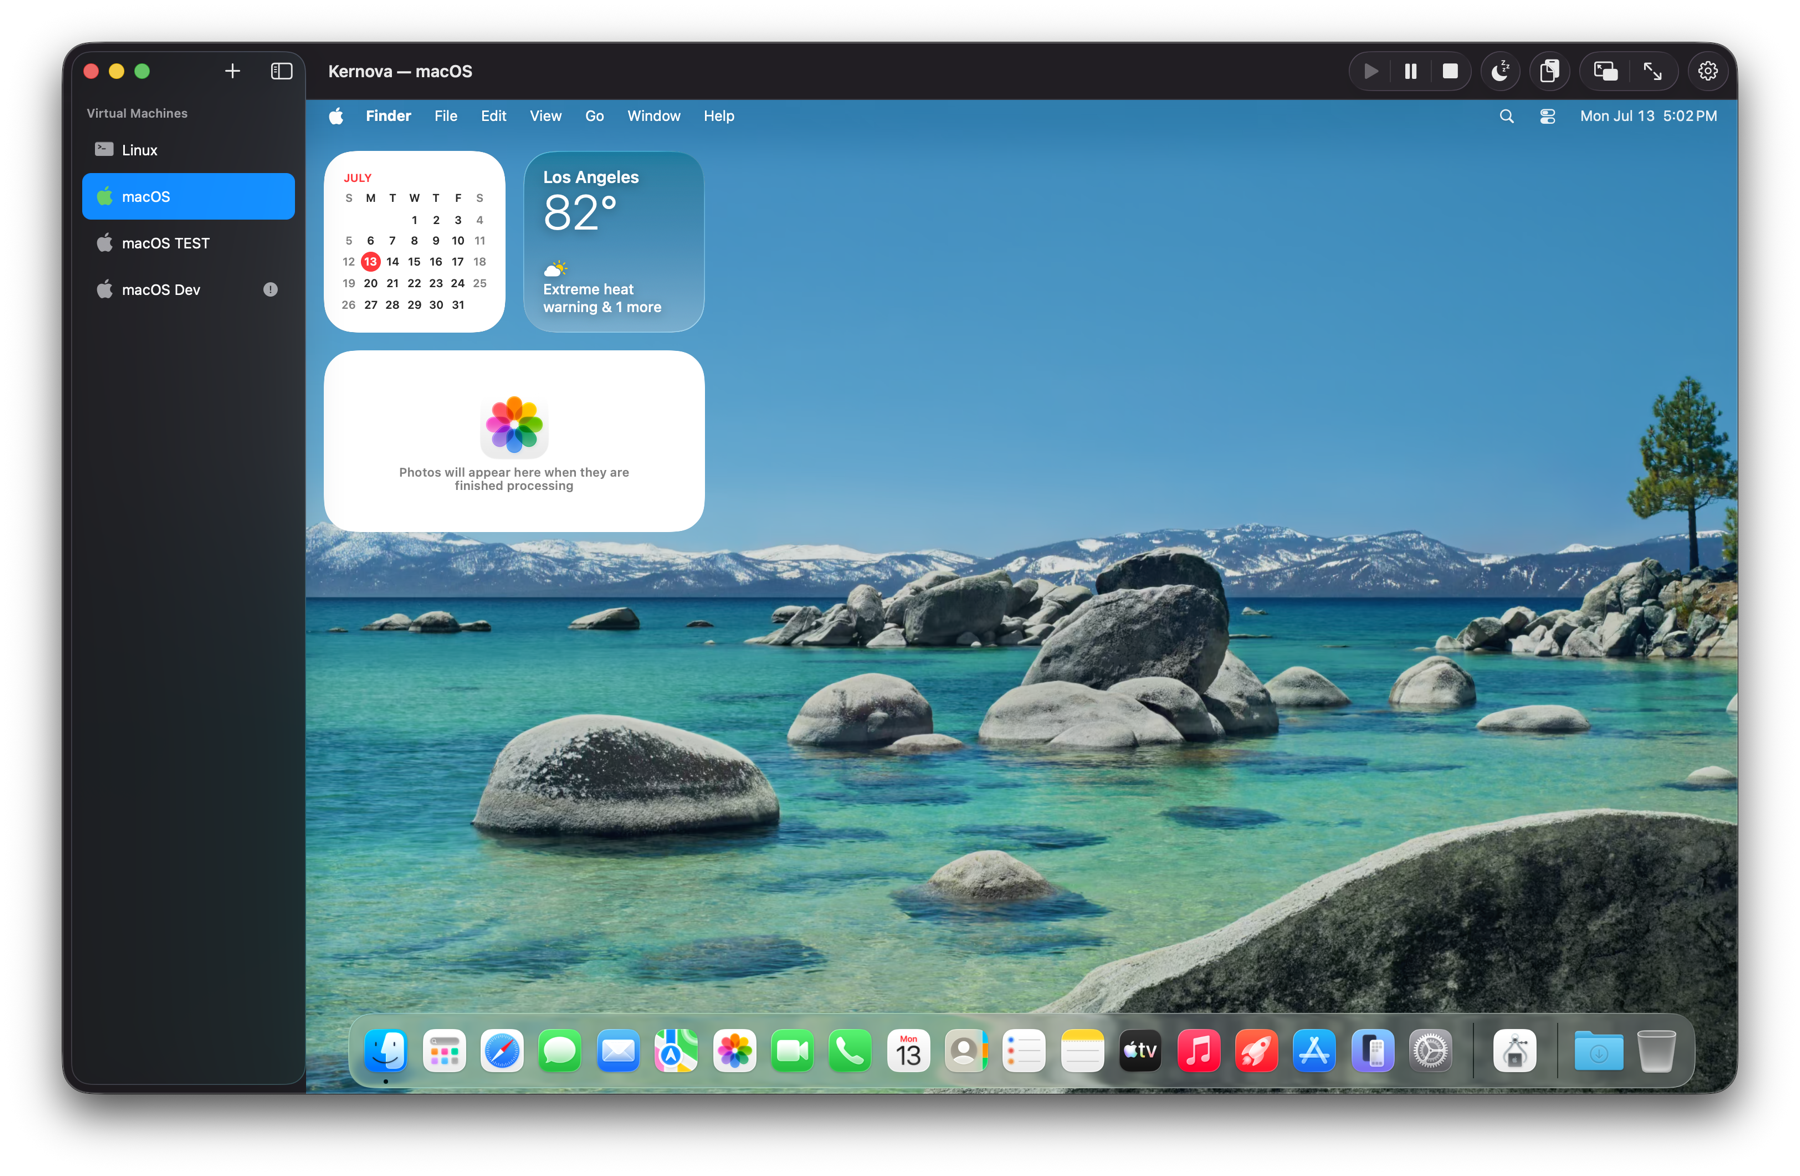
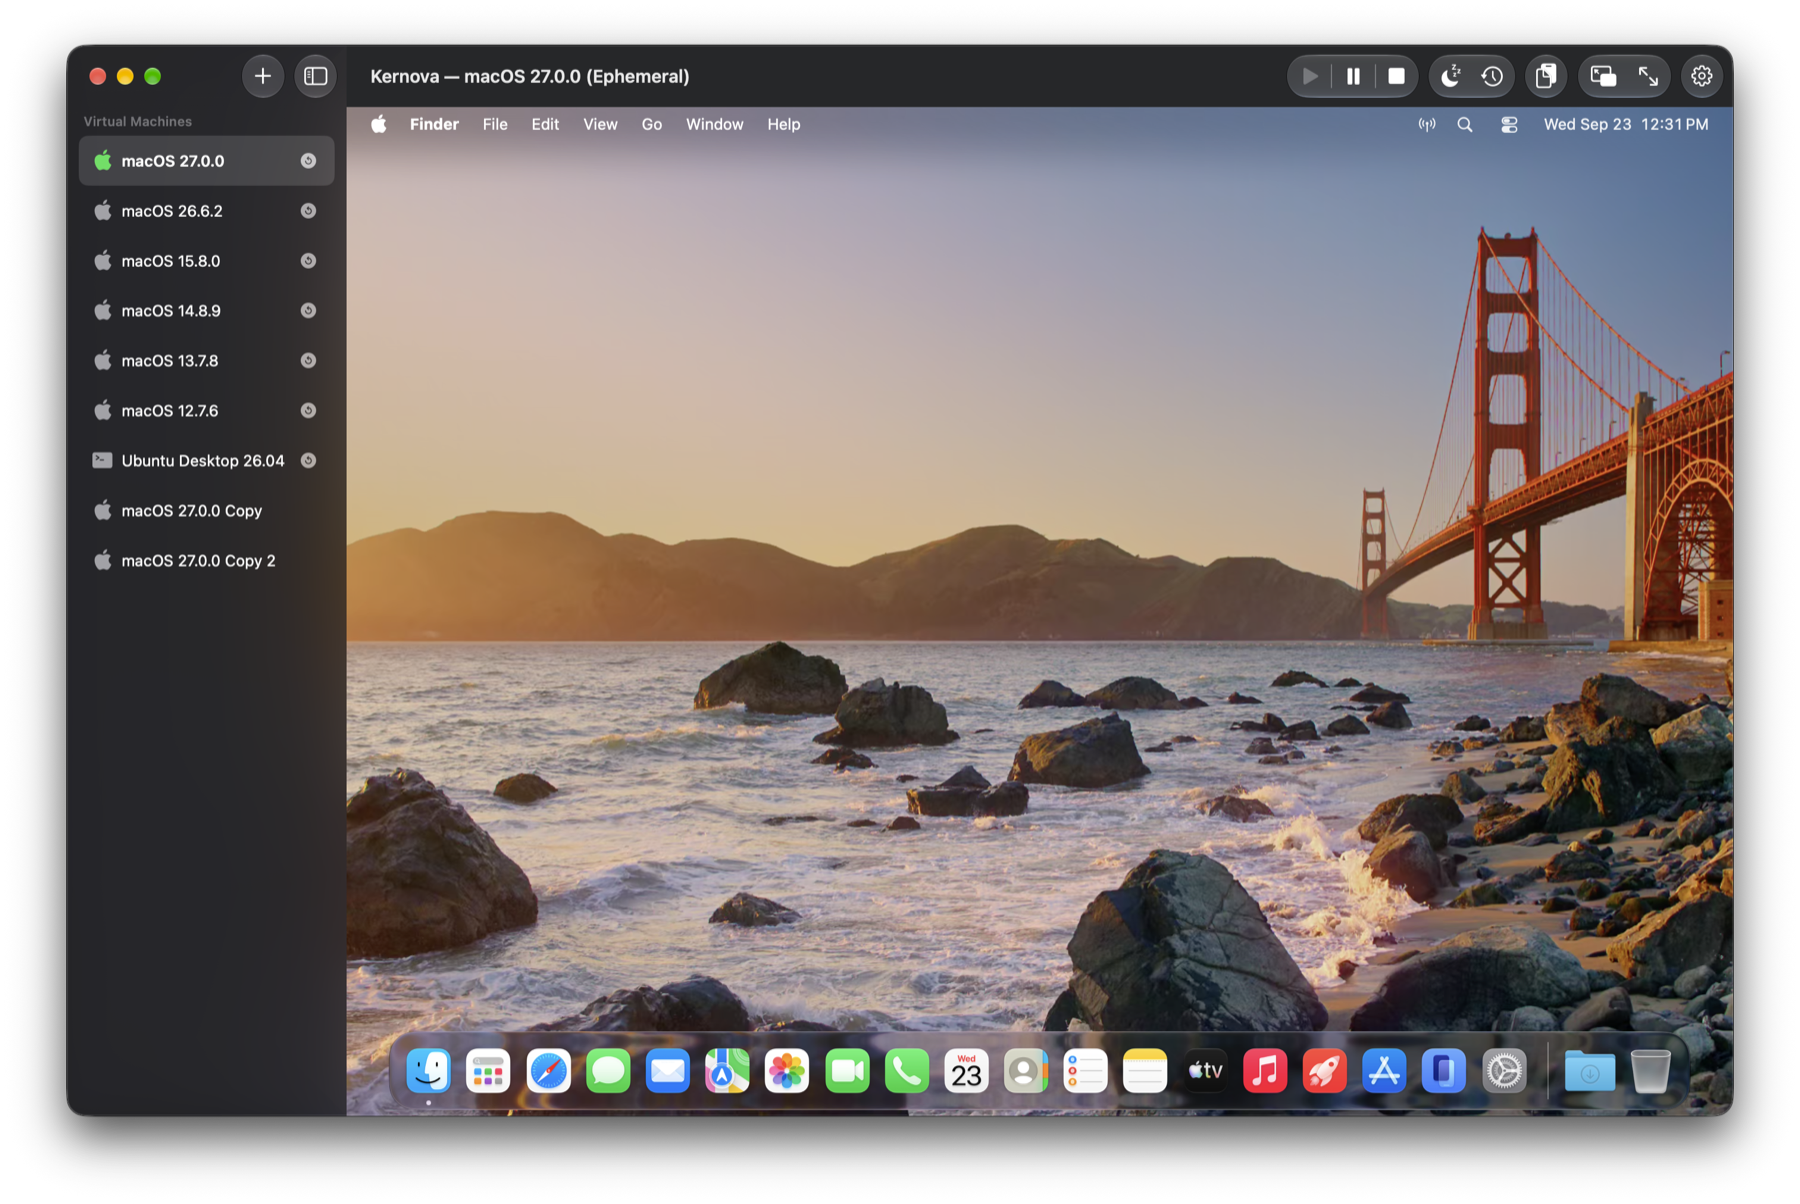
docs: Bring the README and its screenshots up to date (#1357)
The README describes the shipped app: the three restricted entitlements and what each gates, the guest IP readout's scope, the install-time Account step, the current Shortcuts, CLI, and AppleScript surfaces, and the settings panes in order. Every screenshot shows the current UI in light and dark, with a new pair of the Account step.

diff --git a/README.md b/README.md
@@ -15,7 +15,7 @@ Kernova is a native Mac app for fast, disposable macOS and Linux VMs — no thir
 <p align="center">
   <picture>
     <source media="(prefers-color-scheme: dark)" srcset="docs/images/hero-dark.png">
-    <img src="docs/images/hero-light.png" alt="Kernova main window: sidebar of VMs with a running macOS guest in the detail pane" width="900">
+    <img src="docs/images/hero-light.png" alt="Kernova main window: a sidebar of VMs with a running macOS 27 guest's desktop in the detail pane" width="900">
   </picture>
 </p>
 
@@ -24,6 +24,7 @@ Kernova is a native Mac app for fast, disposable macOS and Linux VMs — no thir
 | | macOS guests | Linux guests |
 |---|:---:|:---:|
 | **Install** from IPSW, version catalog, URL, or local file · ISO catalog, URL, or local ISO | ✅ | ✅ |
+| **Account setup** during install — the first boot skips Setup Assistant (macOS 27) | ✅ | — |
 | **Lifecycle** — start, stop, pause, resume, **suspend/restore**, force stop | ✅ | ✅ |
 | **Snapshots** — live memory snapshots, instant copy-on-write, repeatable revert | ✅ | ✅ |
 | **Ephemeral mode** — auto-revert to a baseline at every shutdown | ✅ | ✅ |
@@ -47,11 +48,11 @@ Kernova is a native Mac app for fast, disposable macOS and Linux VMs — no thir
 
 | | |
 |---|---|
-| **Creation wizard** | macOS from the latest IPSW, a version catalog, a URL, or a local file. Linux from a checksum-verified distribution catalog, an image URL, or a local ISO — EFI/UEFI or direct kernel boot. |
+| **Creation wizard** | macOS from the latest IPSW, a version catalog, a URL, or a local file. Linux from a checksum-verified distribution catalog, an image URL, or a local ISO — EFI/UEFI or direct kernel boot. On a macOS 27 host installing macOS 27 or later, an optional **Account** step creates the guest's user — with automatic login and Remote Login if you want them — so the first boot lands past Setup Assistant; the password is never stored. |
 | **Lifecycle** | Start, stop, pause, resume, suspend, and restore. Force Stop for a hung VM; one-shot Start in Recovery Mode for macOS. |
 | **Snapshots** | Named restore points with notes, taken running, suspended, or stopped — the first two capture memory too. Copy-on-write with the VM's own disks, so a snapshot is near-instant and adds little on disk. Revert is repeatable. |
 | **Ephemeral mode** | Per-VM: every shutdown reverts to a chosen baseline snapshot. Suspend keeps the session; a sidebar badge marks the throwaway VM. |
-| **Clone & import** | Clone with a fresh machine identity, or keep it (setting or ⌥-menu). Import `.kernova` bundles by double-click or drag-and-drop — an instant APFS clone on the same volume. |
+| **Clone & import** | Clone with a fresh machine identity, or keep it — a setting picks the default, and the Virtual Machine menu's second Clone item does the other. Import `.kernova` bundles by double-click or drag-and-drop — an instant APFS clone on the same volume. |
 | **Headless** | A menu bar item keeps VMs running after the last window closes and lists each one with its status. Quit save-suspends; sleep pauses, wake resumes. |
 | **Auto-start** | Per-VM boot (or resume) whenever Kernova opens — with Open at Login, the Mac comes up with them running. |
 
@@ -65,6 +66,13 @@ Kernova is a native Mac app for fast, disposable macOS and Linux VMs — no thir
   </picture>
 </p>
 
+<p align="center">
+  <picture>
+    <source media="(prefers-color-scheme: dark)" srcset="docs/images/creation-account-dark.png">
+    <img src="docs/images/creation-account-light.png" alt="The creation wizard's optional Account step, creating the guest's user with automatic login so the first boot skips Setup Assistant" width="720">
+  </picture>
+</p>
+
 ### Virtual hardware
 
 | | |
@@ -73,19 +81,19 @@ Kernova is a native Mac app for fast, disposable macOS and Linux VMs — no thir
 | **Removable media** | ISOs and disk images **hot-plugged** and ejected while the VM runs. |
 | **USB accessories** | On a macOS 27 host, a USB device you assign to Kernova in the **Virtual Machine Accessories** menu extra **passes through** to a running guest — from **Virtual Machine → USB Device** or `kernova usb attach`. Kernova **remembers** the pairing and passes the device through again when you plug it in and when the VM starts. Forget one in the Sharing settings or with `kernova usb forget`. |
 | **Shared folders** | Host folders over **VirtioFS**, read-only or read-write. |
-| **Display** | Resolution presets or custom size, **HiDPI**, size-to-fit at startup, live auto-resize. Inline, pop-out window, or **fullscreen** per VM; flip between the live display and a read-only settings form while running. |
-| **Input** | Mac or USB keyboard/pointer, auto-picked by guest version. Per-VM choice of when **system hot keys** reach the guest: never, in full screen, or always — live-switchable. |
+| **Display** | Resolution presets or custom size, **HiDPI**, size-to-fit at startup, live auto-resize. Inline, pop-out window, or **fullscreen** per VM; flip between the live display and its settings while running — settings that apply at boot lock, the rest stay live. |
+| **Input** | Mac or USB keyboard and pointer, picked by guest version or chosen per macOS VM. Per-VM choice of when **system hot keys** reach the guest: never, in full screen, or always — live-switchable. |
 | **Audio** | Guest audio to the host, on by default. **Microphone** passthrough opt-in per VM, off by default. |
-| **Network** | **Shared (NAT)** · **Bridged** to a chosen interface or Automatic · **Host Only** · None. Live **IP address** readout — the address this Mac last saw the guest use; persistent, editable **MAC address** with one-click regeneration and a duplicate warning. |
+| **Network** | **Shared Network (NAT)** · **Bridged** to a chosen interface or Automatic · **Host Only** · None. Live **IP address** readout on Shared Network and Host Only — the address this Mac last saw the guest use; a bridged guest's comes from your network, so Kernova shows none. Persistent, editable **MAC address** with one-click regeneration and a duplicate warning. |
 | **Serial** | Size-capped `serial.log` in the bundle, plus an opt-in **AF_UNIX socket** relay for `socat` / `nc -U`, hot-toggleable. |
 
 > [!NOTE]
-> **Bridged** and **Host Only** need `com.apple.vm.networking`, a capability Apple grants; **USB accessories** need `com.apple.developer.accessory-access.usb`, which any App ID can enable in Xcode as *Claim USB Accessory*. Both must be authorized by a provisioning profile, so an ad-hoc-signed build carries neither — it hides those features, and everything else works unchanged.
+> **Bridged**, **Host Only**, and the guest **IP address** need `com.apple.vm.networking`, a capability Apple grants; on a macOS 27 host the IP address also needs `com.apple.developer.networking.topology-observation`. **USB accessories** need `com.apple.developer.accessory-access.usb`, which any App ID can enable in Xcode as *Claim USB Accessory*. Each must be authorized by a provisioning profile, so a build without one doesn't offer what it enables, and everything else works unchanged.
 
 <p align="center">
   <picture>
     <source media="(prefers-color-scheme: dark)" srcset="docs/images/vm-settings-dark.png">
-    <img src="docs/images/vm-settings-light.png" alt="VM settings form showing the General, Resources, Storage Disks, Removable Media, Shared Directories, Network, and Audio sections" width="720">
+    <img src="docs/images/vm-settings-light.png" alt="The details pane's overview cards for a running macOS VM: General, System, Storage, Network with the guest's IP address, Sharing, and Snapshots" width="720">
   </picture>
 </p>
 
@@ -96,12 +104,12 @@ Kernova is a native Mac app for fast, disposable macOS and Linux VMs — no thir
 | **Guest agent** (macOS) | A lightweight in-guest helper installed from an attachable disk. Talks to the host over **vsock**; its own menu bar item shows the connection, what's shared, and when an update is available. |
 | **Clipboard sharing** | Bidirectional text, rich text, images, files, and folders. Copy is instant; only a **paste** moves bytes — up to a ceiling (2 GB default) with integrity checks and live progress in a clipboard window. Opt-in **Automatic Passthrough** syncs continuously. Passwords show a locked placeholder; transient content is skipped. Linux: text, via **spice-vdagent**. |
 | **Drag-and-drop** (macOS) | Drop files from Finder onto the display; they land in the guest's Downloads and are revealed, never overwriting, with live progress. |
-| **Log forwarding** (macOS) | Opt-in, live-toggleable: the guest's `os.Logger` records appear in **Console.app** under `app.kernova.guest`. |
+| **Log forwarding** (macOS) | Opt-in, live-toggleable: the guest agent's `os.Logger` records appear in **Console.app** under `app.kernova.guest`. |
 
 <p align="center">
   <picture>
     <source media="(prefers-color-scheme: dark)" srcset="docs/images/clipboard-dark.png">
-    <img src="docs/images/clipboard-light.png" alt="The clipboard window showing rich text with an embedded image shared between host and guest" width="720">
+    <img src="docs/images/clipboard-light.png" alt="The clipboard window for a running macOS guest, showing rich text with an embedded photo and caption, with Automatic passthrough on" width="720">
   </picture>
 </p>
 
@@ -112,9 +120,9 @@ Pure AppKit in the **Liquid Glass** design language — a source-list sidebar wi
 | Settings pane (⌘,) | Holds |
 |---|---|
 | **General** | Open at Login · keep running in the menu bar |
-| **Clipboard** | Maximum paste size |
 | **Reminders** | Menu bar quit reminder · guest-agent install nudge, app-wide and per VM |
-| **Advanced** | Always show ⌥-gated commands · block duplicate machine IDs from booting · new machine ID for clones · install the CLI and shell completions |
+| **Clipboard** | Maximum paste size |
+| **Advanced** | Always show the ⌥-revealed context-menu items · block duplicate machine IDs from booting · new machine ID for clones · install the CLI and shell completions |
 
 ## Automation
 
@@ -122,9 +130,9 @@ Four surfaces, one library, the same verbs.
 
 | Surface | What it offers |
 |---|---|
-| **Shortcuts & Spotlight** | App Intents for the lifecycle (start, stop, pause, resume, suspend, restart, open, reveal), the library (search, import, clone, rename, delete), snapshots (take, find, revert, rename, notes, delete), and reading state or IP — each VM a typed entity you pick by name. |
-| **AppleScript** | A scripting dictionary with the lifecycle verbs and every VM property, for Script Editor and Automator. |
-| **Kernova CLI** | Bundled at `Contents/Helpers/kernova`; **Settings → Advanced → Install…** links it into a folder on your `PATH`. Lifecycle, settings read/write, snapshots, shared folders, USB accessories, `wait`, and `--format json` on every verb. Shell completions for zsh, bash, and fish. |
+| **Shortcuts & Spotlight** | App Intents for the lifecycle (start, stop, pause, resume, suspend, restart, open, cancel guest setup), the library (search, import, clone, cancel a copy, rename, delete), snapshots (take, find, revert, rename, notes, delete), reading state or IP, and quitting Kernova — each VM a typed entity you pick by name. |
+| **AppleScript** | A scripting dictionary with the lifecycle verbs and each VM's state, configuration, and IP address, for Script Editor and Automator. |
+| **Kernova CLI** | Bundled at `Contents/Helpers/kernova`; **Settings → Advanced → Install…** links it into a folder on your `PATH`. Lifecycle, the library (list, info, clone, import, rename, delete, reveal), settings read/write, snapshots, shared folders, USB accessories, `wait`, and `--format json` for scripts. Shell completions for zsh, bash, and fish. |
 | **URL scheme** | Clickable links from a browser, a note, or a script. `kernova://open/<name>` brings a running VM's display forward and refuses when it has none; `kernova://reveal/<name>` never refuses — the display when there is one, the VM's library row otherwise. |
 
 ```bash
@@ -146,7 +154,8 @@ tell application "Kernova"
     -- A name matches without regard to case; a `whose` test filters the library.
     get name of every virtual machine whose state is running
 
-    -- `IP address` is `missing value` until the guest has one.
+    -- `IP address` is `missing value` until Kernova sees the guest use one —
+    -- never, for a bridged guest.
     start virtual machine "Alpha"
     repeat until IP address of virtual machine "Alpha" is not missing value
         delay 1
@@ -193,7 +202,7 @@ Then open `Kernova.xcodeproj`, pick the `Kernova` scheme, and run (⌘R). `make`
 Every `xcodebuild` invocation lives in the `Makefile` (`make help`). Build settings live in `Config/` — `Base.xcconfig` project-wide, `Config/Targets/<Target>.xcconfig` per target. Lint is the `Tools/check-*.sh` scripts that `make lint` runs, and the hooks `make setup` activates are in `.githooks/`. Each of those files explains itself in its own header.
 
 > [!IMPORTANT]
-> **Debug needs no Apple account** — it signs ad-hoc, so a fresh clone builds and runs as-is. With a development certificate, point Debug at it via a gitignored `Config/Local.xcconfig` (from `Config/Local.xcconfig.example`) so privacy grants survive rebuilds. **Release** needs a paid membership and a distribution identity.
+> **Debug needs no Apple account** — it signs ad-hoc, so a fresh clone builds and runs as-is, minus the features a provisioning profile authorizes and the `kernova` CLI, which reaches the app through an app group an ad-hoc signature doesn't get. With a development certificate, point Debug at it via a gitignored `Config/Local.xcconfig` (from `Config/Local.xcconfig.example`) so privacy grants survive rebuilds and the CLI works. **Distributing** a build needs a paid membership and a distribution identity.
 
 The app's entitlements are `Kernova/Resources/Kernova.entitlements` — the shipping set, each key's reason beside it — and `Kernova.Development.entitlements`, the default: the same set minus the restricted keys `Tools/check-entitlements.sh` names, which a signature without an authorizing profile cannot carry. `Config/Local.xcconfig.example` is the opt-in to the full set.
 
